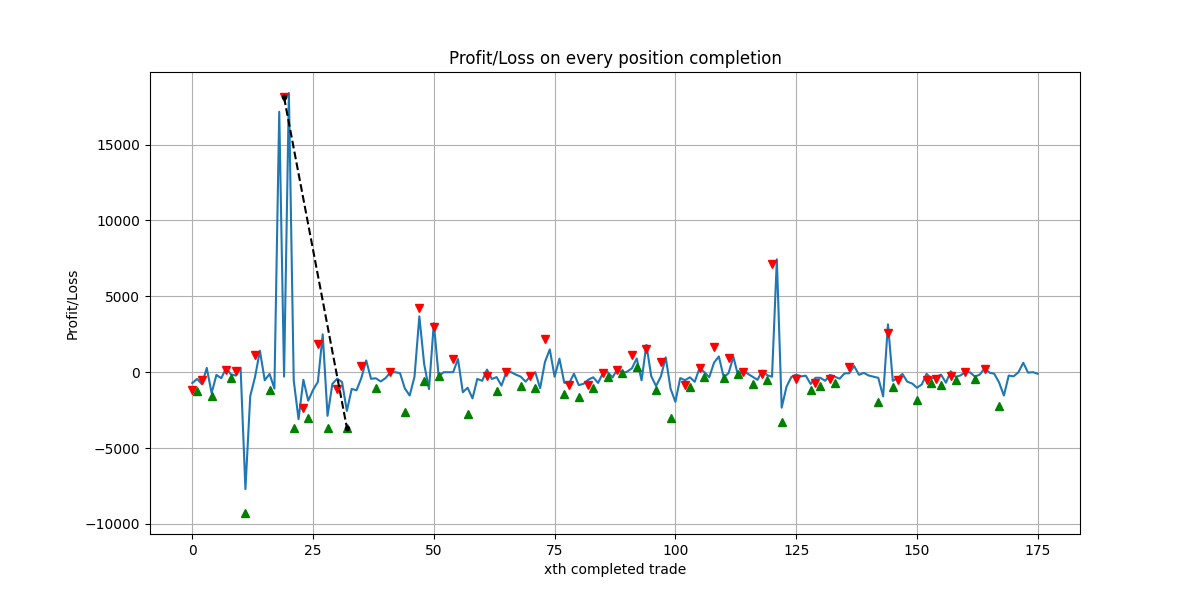
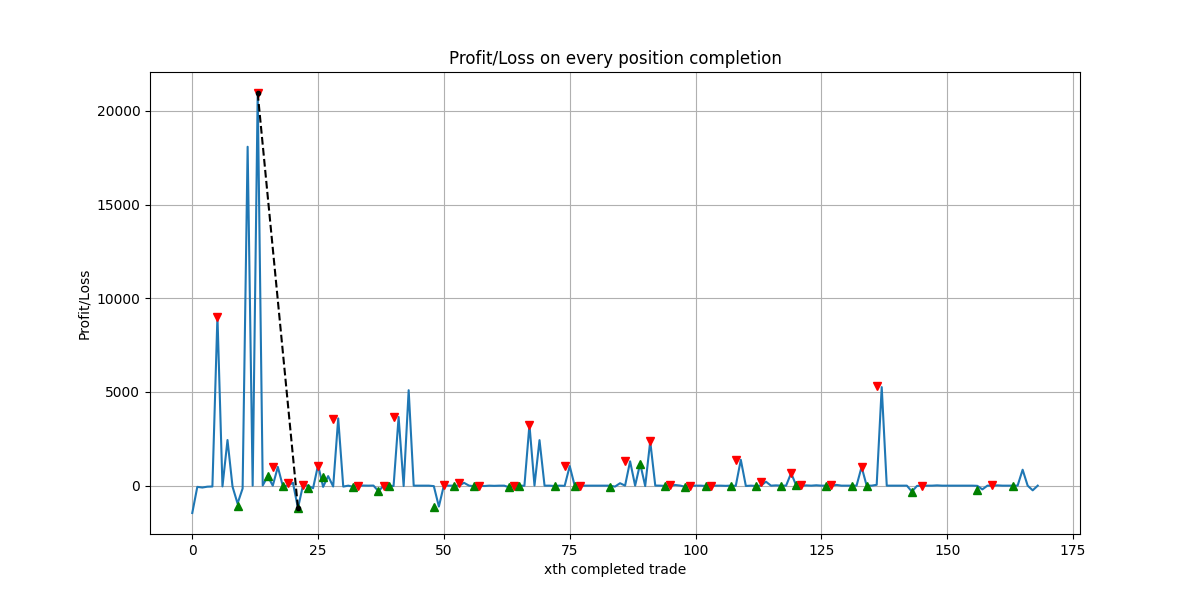
try. jupyter and pycharm giving different output :(

diff --git a/pythonProject1/MyStrategy.py b/pythonProject1/MyStrategy.py
@@ -6,8 +6,8 @@
 # PLOT AND VISUALISE THE METRICS, AND THE DATA
 
 from Data import fetch_with_expiry, fetch_with_ith_expiry
-from Signal_Logics import EMA
-from Trades import make_trades
+from Signal_Logics import EMA, print_signals
+from Trades import make_trades, print_trades
 import pandas as pd
 from Metrics import draw_downs, PNL, get_metrics_object
 from Visualisations import plot_all_traded_options, plot_futures_and_ema, filter_ticks, plot_PNL
@@ -18,18 +18,28 @@ port = 5432
 user = "amt"
 dbname = "qdap_test"
 
-symbol = input("Enter symbol of the option you wanna trade on. Make sure the futures and options symbol are the same in the database: ")
-fund_locked = int(input("Enter amount of fund you wanna block to your strategy (1 month) (in Rs): "))
+symbol = input(">> Enter symbol of the option you wanna trade on. Make sure the futures and options symbol are the same in the database: ")
+fund_locked = int(input(">> Enter amount of fund you wanna block to your strategy (1 month) (in Rs): "))
 fund_locked *= 100
-expiry_input_format = input("do you know a valid expiry that exists in the database? (yes/no): ")
+window_short = 9
+window_long = 26
+wanna_enter_ema_window = input("Do you wanna provide EMA long (default = 26) and short (default = 9) window sizes? (YES/NO): ")
+if wanna_enter_ema_window == "YES" or wanna_enter_ema_window == "yes":
+    window_short = int(input(">> Enter short window length: "))
+    window_long = int(input(">> Enter long window lenght: "))
+moneyness_strike = int(input("Index for the moneyness of options to be traded (for every signal) (+ve => ITM, -ve => OTM): "))
+wanna_enter = input("Do you wanna provide risk free rate per annum? (YES/NO): ")
+risk_free_rate = 12
+if wanna_enter == "yes" or wanna_enter == "YES":
+    risk_free_rate = float(input(">> Enter risk free rate per annum: "))
+expiry_input_format = input("Do you know a valid expiry that exists in the database? (YES/NO): ")
 if expiry_input_format == "YES" or expiry_input_format == "yes":
-    print("Enter expiry")
-    date = int(input("Expiration Date: "))
-    month = int(input("Expiration Month: "))
-    year = int(input("Expiration Year: "))
+    date = int(input(">> Expiration Date: "))
+    month = int(input(">> Expiration Month: "))
+    year = int(input(">> Expiration Year: "))
     DF_FUTURES, DF_OPTIONS = fetch_with_expiry(host, port, user, dbname, symbol, date, month, year)
 else:
-    x = int(input("Enter an index of the array of all the expiries available on I type of futures and options you wanna analyse: "))
+    x = int(input(">> Enter an index of the array of all the expiries available on I type of futures and options you wanna analyse: "))
     DF_FUTURES, DF_OPTIONS = fetch_with_ith_expiry(host, port, user, dbname, symbol, x)
 
 df_futures = DF_FUTURES.copy()
@@ -39,23 +49,30 @@ df_options = DF_OPTIONS.copy()
 print("=======================================================================================================")
 print("                          Printing RAW-FETCHED FUTURES DATA")
 print("=======================================================================================================")
-print("df_futures.shape:", df_futures.shape)
+print("RAW FUTURES DATA FETCHED:")
+print("shape of the futures dataframe fetched:", df_futures.shape)
+print("columns of the futures dataframe fetched:", df_futures.columns)
+print("futures Dataframe statistics:", df_futures.describe())
 print(df_futures)
 print('\n\n\n\n\n\n\n\n')
 print("=======================================================================================================")
 print("                          Printing RAW-FETCHED OPTIONS DATA")
 print("=======================================================================================================")
-print("df_options.shape:", df_options.shape)
+print("RAW OPTIONS DATA FETCHED:")
+print("shape of the options dataframe fetched:", df_options.shape)
+print("columns of the options dataframe fetched:", df_options.columns)
+print("options Dataframe statistics:", df_options.describe())
 print(df_options)
+# =============================================================== DATA PREPOCESSING ================================================================= #
+# =============================================================== DATA PREPOCESSING ================================================================= #
+# =============================================================== DATA PREPOCESSING ================================================================= #
 
-# =============================================================== DATA PREPOCESSING ================================================================= #
-# =============================================================== DATA PREPOCESSING ================================================================= #
-# =============================================================== DATA PREPOCESSING ================================================================= #
 
 df_futures = df_futures.drop_duplicates(subset='date_timestamp', keep='first')
 df_options = df_options.drop_duplicates(subset=['date_timestamp', 'strike'], keep='first')
 df_futures.set_index('date_timestamp', inplace=True)
 df_options.set_index('date_timestamp', inplace=True)
+
 
 
 
@@ -74,8 +91,8 @@ start_intersection = pd.Timestamp.combine(start_intersection, pd.Timestamp('09:1
 end_intersection = pd.Timestamp.combine(end_intersection, pd.Timestamp('15:29:00').time())
 
 print("starts_options:", starts_options)
-print("expiry_options:", expiry_options)
 print("starts_futures:", starts_futures)
+print("expiry_options:", expiry_options)
 print("expiry_futures:", expiry_futures)
 print("start_intersection:", start_intersection)
 print("end_intersection:", end_intersection)
@@ -101,7 +118,7 @@ market_holidays = [
 ]
 trading_days = pd.date_range(start=start_intersection, end=end_intersection, freq='B')
 trading_days = trading_days[~trading_days.to_series().apply(lambda x: (x.month, x.day) in market_holidays)]
-trading_minutes = pd.date_range(start='09:15:00', end='15:29:00', freq='T').time
+trading_minutes = pd.date_range(start='09:15:00', end='15:29:00', freq='min').time
 complete_index = pd.DatetimeIndex([pd.Timestamp.combine(day, time) for day in trading_days for time in trading_minutes])
 df_futures = df_futures.reindex(complete_index).ffill()
 df_calls_ram = df_calls_ram.reindex(complete_index).ffill()
@@ -116,51 +133,44 @@ df = [df_puts_ram, df_calls_ram]
 
 
 
-window_short = 9
-window_long = 26
+strikes = df_options["strike"].unique()
 signals = EMA(window_short, window_long, df_futures)
 print()
 print()
-print("======================= SIGNALS =====================")
+print("=======================SIGNALS====================SIGNALS======================== SIGNALS =======================SIGNALS=========================SIGNALS===============")
 print("number of signals:", len(signals))
 # bullish -> (1, signal_time, valid_trade_time), bearish -> (0, signal_time, valid_trade_time)
-# for signal in signals:
-#     print(signal)
-print(signals)
-print("======================= SIGNALS =====================")
+print_signals(signals)
+print("=======================SIGNALS====================SIGNALS======================== SIGNALS =======================SIGNALS=========================SIGNALS===============")
 
-trades = make_trades(signals, end_intersection, df_futures, df_options, df, fund_locked)
+print()
+print()
+print("======================== TRADES ==================== TRADES ======================== TRADES ========================== TRADES ============================= TRADES =================")
+trades = make_trades(signals, moneyness_strike, end_intersection, df_futures, df_options, df, fund_locked, strikes)
 df_trades = pd.DataFrame(trades, columns=['Price', 'Call/Put', 'Position', 'date_timestamp', 'strike_price'])
 df_trades = df_trades.set_index('date_timestamp')
-print()
-print()
-print("======================= TRADES =====================")
 print("number of trades:", len(trades))
-print("trades:", trades)
-print("======================= TRADES =====================")
+print("trades:", print_trades(df_trades, df_options, df, fund_locked))
+print("======================== TRADES ==================== TRADES ======================== TRADES ========================== TRADES ============================= TRADES =================")
 print()
 print()
-print("======================= PROFITS =====================")
+print("======================== PROFITS ==================== PROFITS ======================== PROFITS ========================== PROFITS ============================= PROFITS =================")
 net_profit, profits = PNL(trades)
 print("length of profits array:", len(profits))
 print("net profit (RS):", net_profit/100)
 print("profits:", profits)
-print("======================= PROFITS =====================")
+print("======================== PROFITS ==================== PROFITS ======================== PROFITS ========================== PROFITS ============================= PROFITS =================")
 
 print()
 print()
-print("======================= DRAWDOWNS =====================")
+print("======================== DRAWDOWNS ==================== DRAWDOWNS ======================== DRAWDOWNS ========================== DRAWDOWNS ============================= DRAWDOWNS =================")
 max_dd, dds = draw_downs(profits)
 print("max drawdown (rs):", max_dd[0]/100)
 print("drawdowns:", dds)
-print("======================= DRAWDOWNS =====================")
+print("======================== DRAWDOWNS ==================== DRAWDOWNS ======================== DRAWDOWNS ========================== DRAWDOWNS ============================= DRAWDOWNS =================")
 
 
-wanna_enter = input("Do you wanna provide risk free rate per annum? (yes/no): ")
 
-risk_free_rate = 12
-if wanna_enter == "yes":
-    risk_free_rate = float(input("Enter risk free rate per annum: "))
 
 metrics = get_metrics_object(df_trades, profits, fund_locked, risk_free_rate)
 
@@ -190,15 +200,15 @@ print("======================= SUMMARY METRICS =====================")
 plot_PNL(profits, dds, max_dd, symbol, end_intersection, "EMA")
 print()
 print()
-futures_check_date_start = input("Enter a date to check futures crossover on (start): ")
+futures_check_date_start = input("Enter a date to check futures crossover on (start) (yyyy-mm-dd): ")
 
-futures_check_date_end = input("Enter a date to check futures crossover on (end): ")
+futures_check_date_end = input("Enter a date to check futures crossover on (end) (yyyy-mm-dd): ")
 
 plot_futures_and_ema(df_futures, futures_check_date_start, futures_check_date_end, symbol, end_intersection, "EMA")
 
-option_check_date = input("Enter a date to check options trades on (start): ")
+option_check_date = input("Enter a date to check options trades on (start) (yyyy-mm-dd): ")
 
-plot_all_traded_options(df_options, df, '2023-12-05', df_trades, filter_ticks, symbol, end_intersection, "EMA")
+plot_all_traded_options(df_options, df, option_check_date, df_trades, filter_ticks, symbol, end_intersection, "EMA")
 
 
 

diff --git a/pythonProject1/Trades.py b/pythonProject1/Trades.py
@@ -1,59 +1,166 @@
+# format of trades
+# (number, 1/0, 1/0, t, s)
+# (price, call/put, long/short, timestamp, strike)
 import pandas as pd
-def make_trades(signals, expiry, df_futures, df_options, df, fund_locked):
+def choose_strike_of_moneyness(opt_type, index_strike, futures_price, df_target):
+    try:
+        # decision logic
+        call_put = (1)*(opt_type) + (-1)*(1-opt_type)
+        moneyness = (1)*(index_strike >= 0) + (-1)*(index_strike < 0)
+        decision = call_put * moneyness
+        # ITM calls (+1 * +1) and OTM puts (-1 * -1) will have a strike < futures_price
+        # OTM calls (-1 * +1) and ITM puts (+1 * -1) will have a strike > futures_price
+        eligible_candidates = [df_target[df_target['strike'] >= futures_price], df_target[df_target['strike'] <= futures_price]]
+        eligible_candidates = eligible_candidates[int(decision == 1)]
+        strike = eligible_candidates["strike"].iloc[max(0, abs(index_strike)-1)]
+        return strike
+    except:
+        # print(eligible_candidates)
+        moneyness = "ATM" if index_strike == 0 else ["OTM", "ITM"][index_strike >= 0]
+        print(f"SIGNAL WASTED: Couln't find an {moneyness}-{abs(index_strike)} option trade in the database at {df_target.index[0]}.")
+        print(f">>> Futures price: {futures_price}.")
+        print(f">>> Eligible strikes traded on/or before the current timestamp: {[i for i in eligible_candidates["strike"]]}")
+        print()
+        return -1
+
+
+# format of trades
+# (number, 1/0, 1/0, t, s)
+# (price, call/put, long/short, timestamp, strike)
+def make_trades(signals, moneyness_strike, expiry, df_futures, df_options, df, fund_locked, strikes):
     available_funds = fund_locked
     trades = []
-    # (number, 1/0, 1/0, t, s)
-    # (price, call/put, long/short, timestamp, strike)
     ix = 0
+    df_target = None
+
+    # brute forcing the first trade (fund locking)
     while ix < len(signals):
+        # first signal details
         first_signal_type = signals[ix][0]
         first_valid_tradable_timestamp = signals[ix][2]
         futures_price = df_futures['close'].loc[first_valid_tradable_timestamp]
-        # Finding the ITM-1 or ATM option
-        strike = futures_price
-        if first_signal_type:
-            eligible_candidates = df_options[(df_options.index == first_valid_tradable_timestamp) & (df_options['strike'] <= strike)]
-            strike = eligible_candidates["strike"].max()
-        else:
-            eligible_candidates = df_options[(df_options.index == first_valid_tradable_timestamp) & (df_options['strike'] >= strike)]
-            strike = eligible_candidates["strike"].min()
+
+        # calculation and logic
+        opt_type = ["PE", "CE"][first_signal_type]
+        df_target = df_options[df_options["opt_type"] == opt_type]
+        df_target = df_target[df_target.index == first_valid_tradable_timestamp]
+        strike = choose_strike_of_moneyness(first_signal_type, moneyness_strike, futures_price, df_target)
+        if strike == -1:
+            ix += 1
+            continue
         price = df[first_signal_type][strike].loc[first_valid_tradable_timestamp]
+        # validity of positions (fund locking)
         if price <= available_funds:
             trades.append((price, first_signal_type, 1, first_valid_tradable_timestamp, strike))
             available_funds -= price
             break
         ix += 1
-    for i, signal in enumerate(signals[ix+1:]):
+
+    # executing trades as per the signals generated
+    for i, signal in enumerate(signals[ix + 1:]):
+        # last trade details
         last_trade = trades[len(trades) - 1]
         last_trade_price = last_trade[0]
         last_trade_opt_type = last_trade[1]
         last_trade_position = last_trade[2]
         last_strike = last_trade[4]
+
+        # current signal details
         signal_nature = signal[0]
         signal_time_stamp = signal[1]
         valid_tradable_time_stamp = signal[2]
-        square_off_price = df[last_trade_opt_type][last_strike].loc[valid_tradable_time_stamp]
-        current_strike = df_futures['close'].loc[valid_tradable_time_stamp]
-        if first_signal_type:
-            eligible_candidates = df_options[(df_options.index == first_valid_tradable_timestamp) & (df_options['strike'] <= current_strike)]
-            current_strike = eligible_candidates["strike"].max()
-        else:
-            eligible_candidates = df_options[(df_options.index == first_valid_tradable_timestamp) & (df_options['strike'] >= currrent_strike)]
-            current_strike = eligible_candidates["strike"].min()
 
+        # calculation and logic
+        square_off_price = df[last_trade_opt_type][last_strike].loc[valid_tradable_time_stamp]
+        futures_price = df_futures['close'].loc[valid_tradable_time_stamp]
+        opt_type = ["PE", "CE"][signal_nature]  # df of calls/puts (rows-> timestamps, cols-> strikes, values-> close)
+        df_target = df_options[df_options["opt_type"] == opt_type]
+        df_target = df_target[df_target.index == first_valid_tradable_timestamp]
+        current_strike = choose_strike_of_moneyness(first_signal_type, moneyness_strike, futures_price, df_target)
+        if current_strike == -1:
+            continue
         buying_price = df[signal_nature][current_strike].loc[valid_tradable_time_stamp]
+
+        # validity of positions (fund locking)
         if last_trade_position == 1:
-            trades.append((square_off_price, last_trade_opt_type, 1-last_trade_position, valid_tradable_time_stamp, last_strike))
+            trades.append((square_off_price, last_trade_opt_type, 1 - last_trade_position, valid_tradable_time_stamp,
+                           last_strike))
             available_funds += min(square_off_price, last_trade_price)
         if buying_price <= available_funds:
             trades.append((buying_price, signal_nature, 1, valid_tradable_time_stamp, current_strike))
             available_funds -= buying_price
 
+    # manually squaring off the last trade at the last tradable minute
     last_trade = trades[len(trades) - 1]
     last_trade_opt_type = last_trade[1]
     last_trade_strike = last_trade[4]
-    expiry = pd.to_datetime(expiry, format = '%d-%m-%Y')
+    expiry = pd.to_datetime(expiry, format='%d-%m-%Y')
     last_valid_tradable_time_stamp = pd.Timestamp(f"{expiry} 15:29:00")
     last_square_off_price = df[last_trade_opt_type][last_trade_strike].loc[last_valid_tradable_time_stamp]
     trades.append((last_square_off_price, last_trade_opt_type, 0, last_valid_tradable_time_stamp, last_trade_strike))
     return trades
+
+
+def stats_per_trade(open, close, df_options, df_ram, fund_blocked, risk_free=12):
+    opt_type = open['Call/Put']
+    strike = open['strike_price']
+
+    open_time = open.name
+    close_time = close.name
+    time_stamps = df_options.loc[open_time:close_time].index
+    holding_period = (close_time - open_time).total_seconds() / 60
+
+    open_price = open['Price']
+    close_price = close['Price']
+    profit = close_price - open_price
+
+    dd = 0
+    max_dd = 0
+    last_max_price = close_price
+    closes = df_ram[int(opt_type)][int(strike)]
+    variations = []
+    for timestamp in time_stamps:
+        last_max_price = max(last_max_price, closes[timestamp])
+        dd = min(dd, closes[timestamp] - last_max_price)
+        max_dd = min(dd, max_dd)
+        variations.append(closes[timestamp] - close_price)
+
+    variations = pd.Series(variations)
+    std_granularity = variations.std()
+    if std_granularity == 0:
+        std_granularity = 1
+    sharpe = profit - risk_free * 1 / 365 * 1 / 24 * 1 / 60 * 1 / 100 * fund_blocked * holding_period
+    sharpe /= std_granularity
+    return max_dd, profit, holding_period, std_granularity, sharpe
+def print_trades(df_trades, df_options, df_ram, fund_blocked):
+    open_position = None
+    open_details = []
+    close_details = []
+    sharpes = []
+    for i, row in df_trades.iterrows():
+        pos = "Sell"
+        open_position = False
+        close_details = row
+        if row["Position"]:
+            pos = "Buy "
+            open_position = True
+            open_details = row
+        type = "Put"
+        if row["Call/Put"]:
+            type = "Call"
+        strike = row["strike_price"]
+        price = row["Price"]
+        print(f"at time: {i} || {pos} {type} option of strike = {strike} for a price of {price}")
+        if not open_position:
+            print("==> TRADE STATS")
+            max_dd, profit, holding_period, std, sharpe = stats_per_trade(open_details, close_details, df_options, df_ram, fund_blocked)
+            sharpes.append(sharpe)
+            print(">>>> maximum drawdown:", max_dd)
+            print(">>>> profit:", profit)
+            print(">>>> holding period:", holding_period, "minutes")
+            print(">>>> standard deviation:", std)
+            print(">>>> sharpe:", sharpe)
+            print("=========================================================================================================")
+    sharpes = pd.Series(sharpes)
+    print(sharpes.mean())
+

diff --git a/pythonProject1/Signal_Logics.py b/pythonProject1/Signal_Logics.py
@@ -11,3 +11,7 @@ def EMA(window_short, window_long, df):
             signals.append((int(position_polarity_positive), df.index[i], df.index[i+1]))
             # bullish -> (1, signal_time, valid_trade_time), bearish -> (0, signal_time, valid_trade_time)
     return signals
+
+def print_signals(signals):
+    for signal in signals:
+        print(f"{["BULLISH", "BEARISH"][signal[0]]} Signal at {signal[1]}. Valid tradable timestamp for this signal: {signal[2]}")
